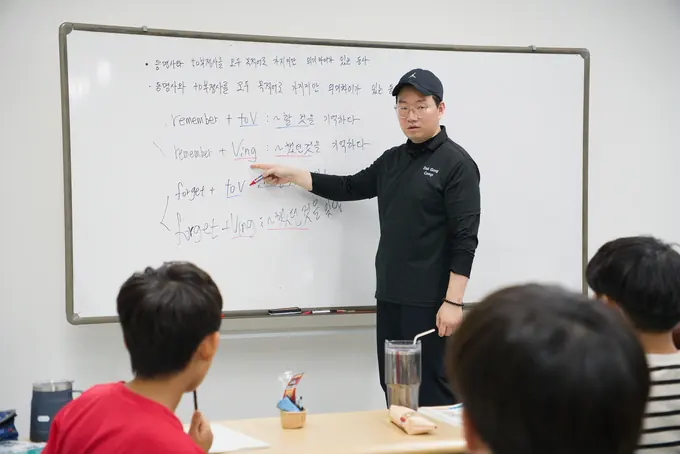
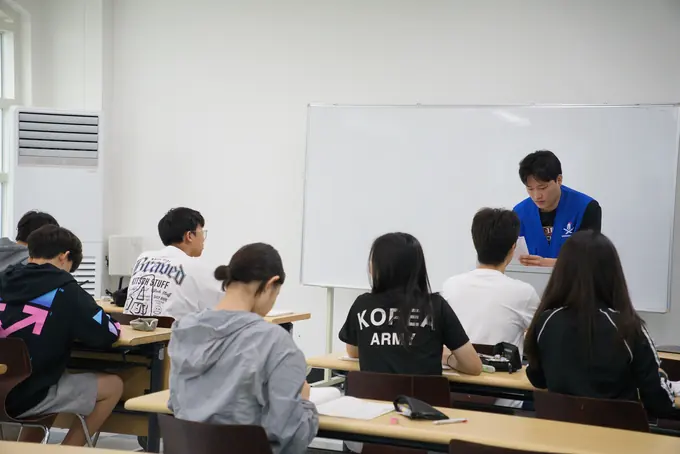
슬라이딩 — 이음매 페더 처리 · 높이 확대 · 판서 컷 회수
회장 지적 셋.

① 사진 사이 검정 띠 → gap 12px 이 다크 배경을 드러낸 것이었다. gap 을 0 으로 하고
   각 사진 위 18px 을 마스크로 빼고 그만큼 위로 당겨(margin-top:-18px) 앞 사진에 겹쳤다.
   잘린 자국 없이 넘어간다.
   주의: margin-top 은 모든 사진에 똑같이 걸어야 한다. 첫 장만 빼면 한 벌 높이가
   6h-5x18, 다른 벌은 6h-6x18 이 되어 -50% 루프가 매 바퀴 9px 씩 어긋난다
   (후기 띠에서 gap 반 칸 때문에 겪은 것과 같은 함정). 실측으로 절반=한 벌 일치 확인.

② 모바일 사진 칸 200 -> 300px.

③ ★판서 컷은 선생님 페이지 과목별 자산이다 — 칠판 글이 곧 과목 표시다.
   수학(lecture-01) / 영어(02·03·04) / 국어(05·06) / 과학(07·08).
   내가 그걸 못 읽고 커리큘럼에 흩어 썼다. 회수한다:
     3분할 가운데 lecture-02(영어 판서) -> self-study-06(자습실 전경)
     슬라이딩 1번 lecture-03 -> class-04 / 4번 lecture-04 -> mentoring-02
   커리큘럼 본문에서 lecture 참조 0.
   ⚠ 히어로 배경은 아직 lecture-01(수학 판서)이다. 그 자리는 회장이 직접
      "수학 수업 중인 이미지로" 지정한 곳이라 임의로 안 바꿨다. 확인 필요.

검증 390/1440px: 이미지 간격 -18(겹침), 루프 절반=한 벌 일치, 깨진 사진 0/12,
4xx 0, 가로 스크롤 0.

diff --git a/assets/css/page-curriculum.css b/assets/css/page-curriculum.css
@@ -270,10 +270,19 @@
 .dk-daily__bg { position: absolute; left: 0; top: 0; bottom: 0; width: 48%; overflow: hidden;
   -webkit-mask-image: linear-gradient(to bottom, transparent 0, #000 9%, #000 91%, transparent 100%);
           mask-image: linear-gradient(to bottom, transparent 0, #000 9%, #000 91%, transparent 100%); }
-.dk-daily__track { display: flex; flex-direction: column; gap: 12px;
+/* 2026-08-20 회장 지적 — 사진 사이 12px gap 이 다크 배경을 드러내 검정 띠로 보였다.
+   gap 을 없애고 사진끼리 붙이되, 이음매를 얕게 페더 처리한다.
+   방법: 각 사진의 위 18px 을 투명으로 빼고(mask) 그만큼 위로 당겨(margin-top: -18px)
+   앞 사진 위에 겹친다. 잘린 자국 없이 부드럽게 넘어간다.
+   주의: margin-top 은 모든 사진에 똑같이 걸어야 한다. 첫 장만 빼면 한 벌의 높이가
+   6h-5x18, 다른 벌은 6h-6x18 이 되어 -50% 루프가 매 바퀴 9px 씩 어긋난다
+   (후기 띠에서 gap 반 칸 때문에 겪었던 것과 같은 함정). */
+.dk-daily__track { display: flex; flex-direction: column; gap: 0;
   animation: dkDailyUp 40s linear infinite; }
 .dk-daily__bg:hover .dk-daily__track { animation-play-state: paused; }
-.dk-daily__track img { width: 100%; height: auto; display: block; }
+.dk-daily__track img { width: 100%; height: auto; display: block; margin-top: -18px;
+  -webkit-mask-image: linear-gradient(to bottom, transparent 0, #000 18px);
+          mask-image: linear-gradient(to bottom, transparent 0, #000 18px); }
 /* 목록을 두 벌 깔고 -50% 까지만 밀면 이음새가 안 보인다(후기 롤링과 같은 원리). */
 @keyframes dkDailyUp { from { transform: translateY(0); } to { transform: translateY(-50%); } }
 
@@ -306,7 +315,7 @@
 /* 모바일 — 레이어를 푼다. 사진 위, 내용 아래. 메달리온 돌출도 없앤다. */
 @media (max-width: 768px) {
   .dk-daily { min-height: 0; }
-  .dk-daily__bg { position: relative; width: 100%; height: 200px; }
+  .dk-daily__bg { position: relative; width: 100%; height: 300px; }  /* 회장 지적: 너무 좁다. 200 -> 300px */
   .dk-daily__panel { position: relative; width: 100%; border-radius: 0;
     padding: 26px 20px 30px; gap: 22px; }
   .dk-daily__badge { width: 60px; height: 60px; margin-left: 0; box-shadow: none; }

diff --git a/curriculum.html b/curriculum.html
@@ -463,7 +463,7 @@
          촬영분 어디에도 학년이 드러나는 컷이 없어, 그대로 쓰면 지어내기가 된다.
          → 사진이 증명할 수 있는 것(교실 전경 · 과목 판서 · 개별 지도)으로 바꿨다. -->
     <div class="dk-ph is-filled"><img src="assets/images/curriculum/dakgong-domestic-class-03-1200.webp" srcset="assets/images/curriculum/dakgong-domestic-class-03-700.webp 700w, assets/images/curriculum/dakgong-domestic-class-03-1200.webp 1200w" sizes="(max-width: 640px) 92vw, 60vw" width="1200" height="801" loading="lazy" decoding="async" alt="강의실에 앉은 학생들이 앞에 선 강사의 수업을 듣는 모습"></div>
-    <div class="dk-ph is-filled"><img src="assets/images/curriculum/dakgong-domestic-lecture-02-1200.webp" srcset="assets/images/curriculum/dakgong-domestic-lecture-02-700.webp 700w, assets/images/curriculum/dakgong-domestic-lecture-02-1200.webp 1200w" sizes="(max-width: 640px) 45vw, 30vw" width="1200" height="801" loading="lazy" decoding="async" alt="강사가 화이트보드에 적은 영어 문법 정리를 짚어 주는 모습"></div>
+    <div class="dk-ph is-filled"><img src="assets/images/curriculum/dakgong-domestic-self-study-06-1200.webp" srcset="assets/images/curriculum/dakgong-domestic-self-study-06-700.webp 700w, assets/images/curriculum/dakgong-domestic-self-study-06-1200.webp 1200w" sizes="(max-width: 640px) 45vw, 30vw" width="1200" height="801" loading="lazy" decoding="async" alt="자습실에서 담당자가 지켜보는 가운데 학생들이 각자 공부하는 모습"></div>
     <div class="dk-ph is-filled"><img src="assets/images/curriculum/dakgong-domestic-self-study-01-1200.webp" srcset="assets/images/curriculum/dakgong-domestic-self-study-01-700.webp 700w, assets/images/curriculum/dakgong-domestic-self-study-01-1200.webp 1200w" sizes="(max-width: 640px) 45vw, 30vw" width="1200" height="801" loading="lazy" decoding="async" alt="담당자가 학생 자리로 와 문제 풀이를 함께 보며 설명하는 모습"></div>
   </div>
 </div>
